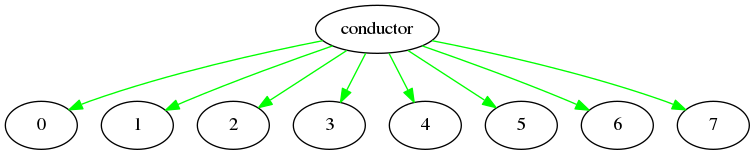
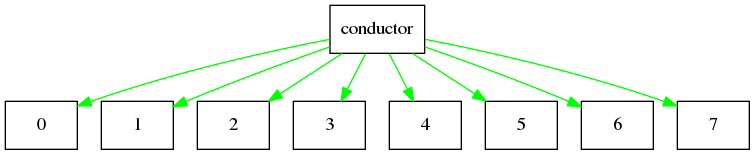
nodes are squared

diff --git a/content/post/orchestrate-a-digraph-with-goroutine.md b/content/post/orchestrate-a-digraph-with-goroutine.md
@@ -47,21 +47,36 @@ Every goroutine will then check in the adjacency matrix, whether it has predeces
 Once the execution of task is over, the goroutine will then feed another channel to tell the conductor that its job is done. and then the conductor will broadcast the information.
 
 * __(1)__ The conductors feed the nodes with the matrix
-<a href="/assets/orchestrate-a-digraph-with-goroutine/digraph_step1.dot"><img class="img-responsive" src="/assets/images/digraph_step1.png" alt="digraph example"/></a>
+
+<a href="/assets/orchestrate-a-digraph-with-goroutine/digraph_step1.dot"><img class="img-responsive img-thumbnail" src="/assets/images/digraph_step1.png" alt="digraph example"/></a>
+
 * __(2)__ Every node get the data and analyse the matrix
-<a href="/assets/orchestrate-a-digraph-with-goroutine/digraph_step2.dot"><img class="img-responsive" src="/assets/images/digraph_step2.png" alt="digraph example"/> </a>
+
+<a href="/assets/orchestrate-a-digraph-with-goroutine/digraph_step2.dot"><img class="img-responsive img-thumbnail" src="/assets/images/digraph_step2.png" alt="digraph example"/> </a>
+
 * __(3)__ Nodes 3, 5 and 7 have no predecessor, they can run
-<a href="/assets/orchestrate-a-digraph-with-goroutine/digraph_step3.dot"><img class="img-responsive" src="/assets/images/digraph_step3.png" alt="digraph example"/> </a>
+
+<a href="/assets/orchestrate-a-digraph-with-goroutine/digraph_step3.dot"><img class="img-responsive img-thumbnail" src="/assets/images/digraph_step3.png" alt="digraph example"/> </a>
+
 * __(4)__ Nodes 3 and 5 are done, they informs the conductor
-<a href="/assets/orchestrate-a-digraph-with-goroutine/digraph_step4.dot"><img class="img-responsive" src="/assets/images/digraph_step4.png" alt="digraph example"/> </a>
+
+<a href="/assets/orchestrate-a-digraph-with-goroutine/digraph_step4.dot"><img class="img-responsive img-thumbnail" src="/assets/images/digraph_step4.png" alt="digraph example"/> </a>
+
 * __(5)__ conductor update the matrix
-<a href="/assets/orchestrate-a-digraph-with-goroutine/digraph_step5.dot"><img class="img-responsive" src="/assets/images/digraph_step5.png" alt="digraph example"/> </a>
+
+<a href="/assets/orchestrate-a-digraph-with-goroutine/digraph_step5.dot"><img class="img-responsive img-thumbnail" src="/assets/images/digraph_step5.png" alt="digraph example"/> </a>
+
 * __(6)__ The conductor feeds the nodes with the matrix
-<a href="/assets/orchestrate-a-digraph-with-goroutine/digraph_step6.dot"><img class="img-responsive" src="/assets/images/digraph_step6.png" alt="digraph example"/> </a>
+
+<a href="/assets/orchestrate-a-digraph-with-goroutine/digraph_step6.dot"><img class="img-responsive img-thumbnail" src="/assets/images/digraph_step6.png" alt="digraph example"/> </a>
+
 * __(7)__ The nodes analyse the matrix
-<a href="/assets/orchestrate-a-digraph-with-goroutine/digraph_step7.dot"><img class="img-responsive" src="/assets/images/digraph_step7.png" alt="digraph example"/> </a>
+
+<a href="/assets/orchestrate-a-digraph-with-goroutine/digraph_step7.dot"><img class="img-responsive img-thumbnail" src="/assets/images/digraph_step7.png" alt="digraph example"/> </a>
+
 * __(8)__ Node 2 can run...
-<a href="/assets/orchestrate-a-digraph-with-goroutine/digraph_step8.dot"><img class="img-responsive" src="/assets/images/digraph_step8.png" alt="digraph example"/> </a>
+
+<a href="/assets/orchestrate-a-digraph-with-goroutine/digraph_step8.dot"><img class="img-responsive img-thumbnail" src="/assets/images/digraph_step8.png" alt="digraph example"/> </a>
 
 ## The representation of the use case in go
 
